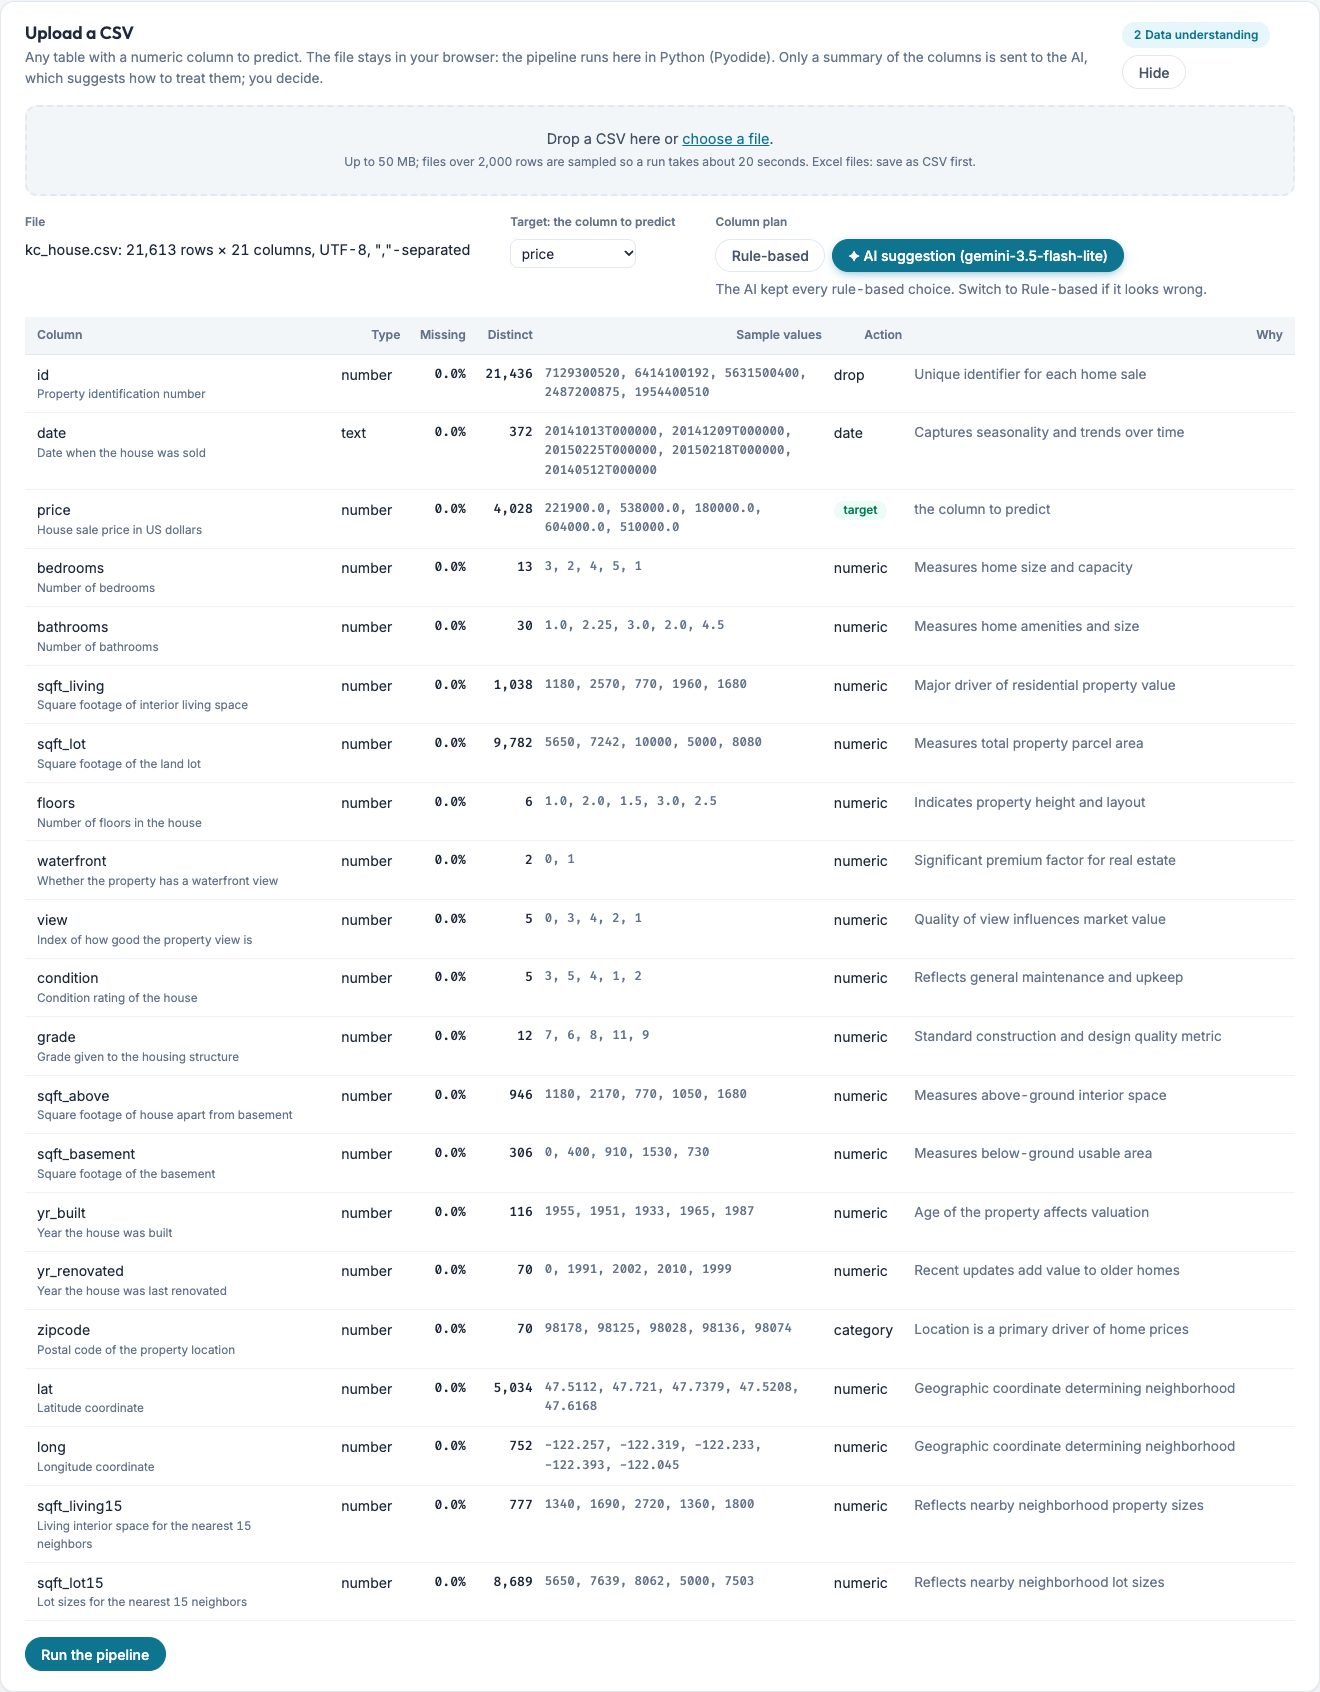
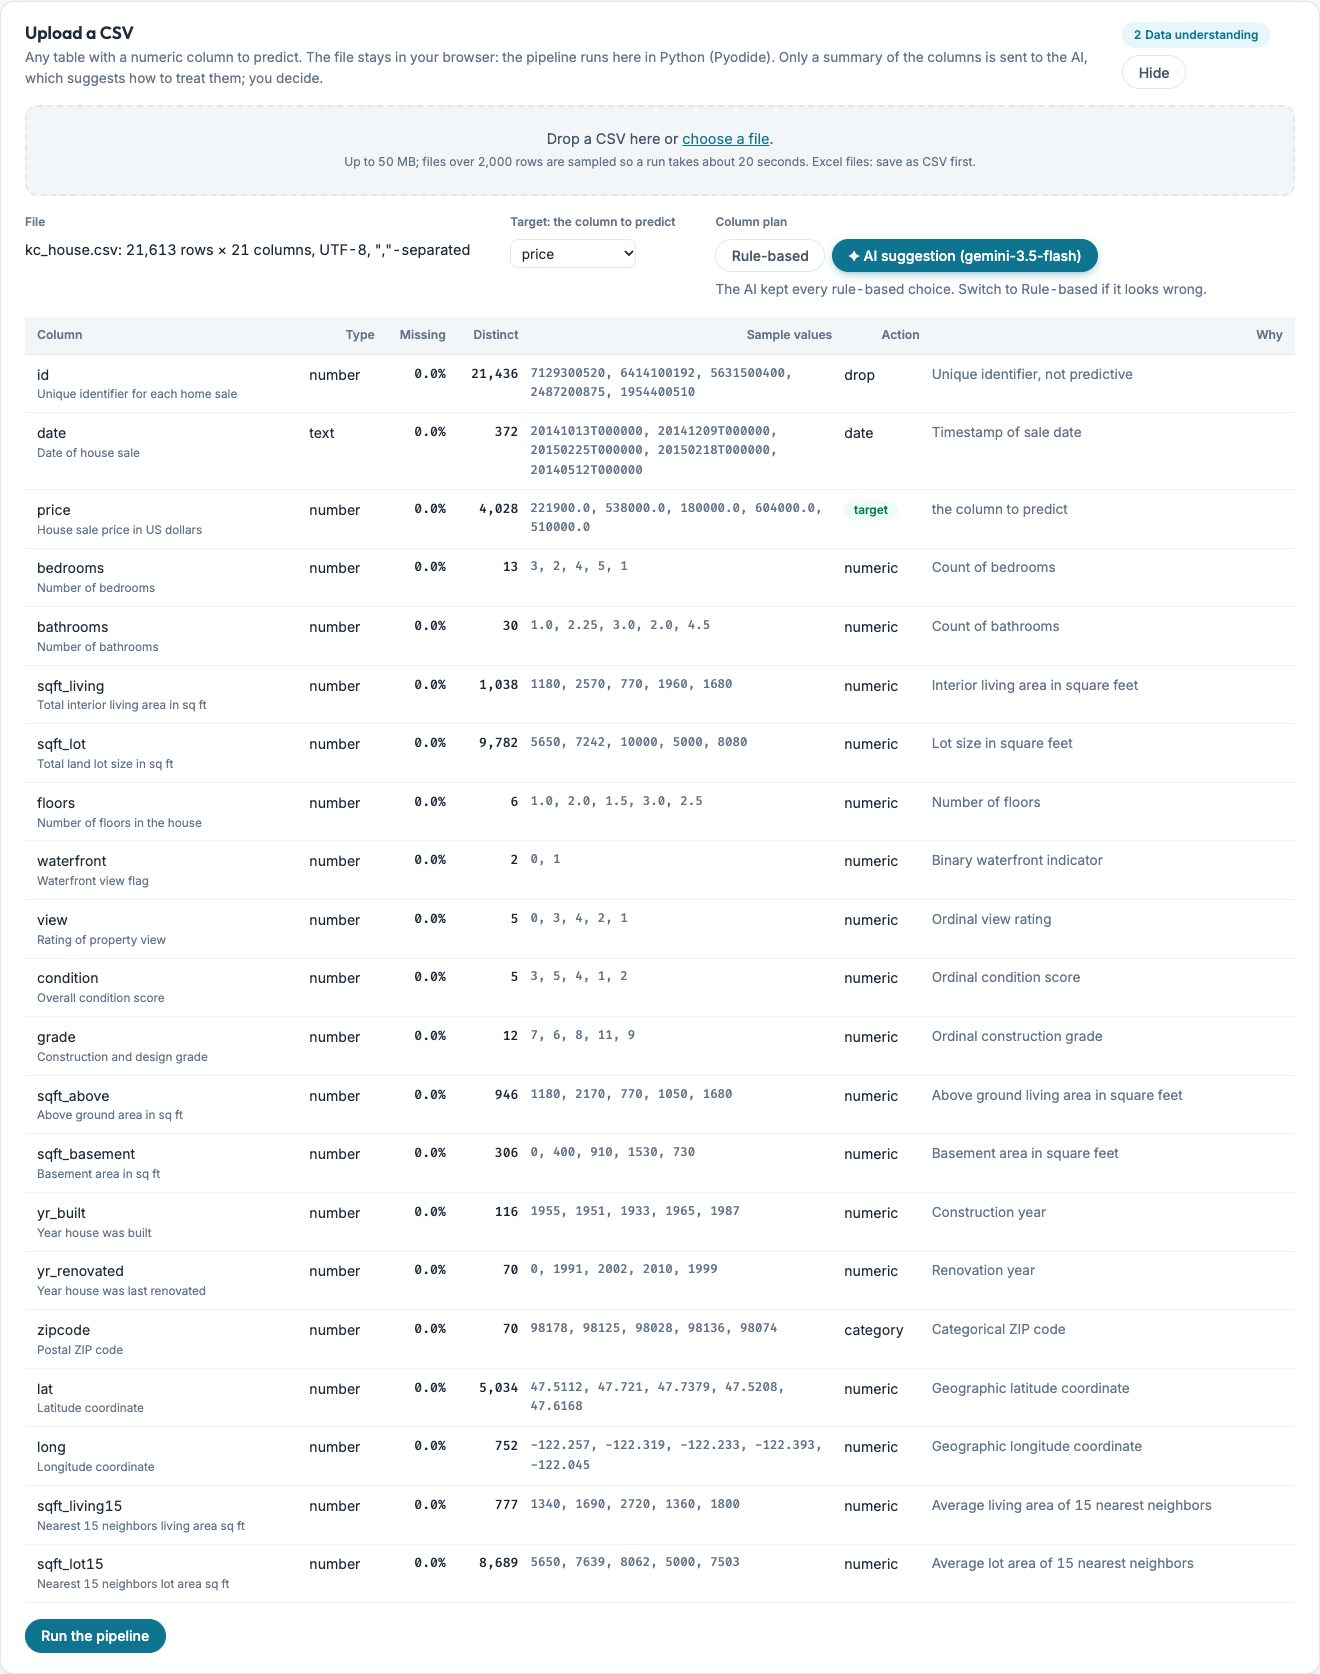
feat: open every dataset on its best combination and mark it in the controls

diff --git a/web/app.js b/web/app.js
@@ -21,6 +21,8 @@ const label = (c) => `${ML[c.method]} + ${c.model}`;
 const series = (d, method, model) => d.combos.filter((c) => c.method === method && c.model === model).sort((a, b) => a.k - b.k);
 const minBy = (list, f) => list.reduce((a, b) => (f(b) < f(a) ? b : a));
 const methods = () => (S.method === "*" ? METHODS : [S.method]);
+const best = (d) => minBy(d.combos.filter((c) => c.method !== "All"), (c) => c.cv_rmse);   // the recommended combination
+const choose = (d) => { const b = best(d); Object.assign(S, { method: b.method, model: b.model, k: null, whatif: {} }); };   // every dataset opens on it
 // the combo every card describes: the chosen k, or each method's best k by CV RMSE; in compare mode the best method wins
 function active(d) {
   const cands = methods().map((m) => (S.k ? series(d, m, S.model).find((c) => c.k === S.k) : minBy(series(d, m, S.model), (c) => c.cv_rmse)));
@@ -50,11 +52,12 @@ function seg(box, options, value, onPick) {
 }
 function renderControls(d, a) {
   const pick = (f) => (v) => { f(v); S.k = null; S.whatif = {}; render(); };
-  seg($("ds"), Object.entries(S.base).map(([k, v]) => [k, esc(v.spec.name)]), S.ds, pick((v) => (S.ds = v)));
-  seg($("methods"), [...METHODS.map((m, i) => [m, `<span class="sw" style="--c:var(--m${i + 1})"></span>${ML[m]}`]), ["*", `Compare all ${METHODS.length} methods`, "all"]], S.method, pick((v) => (S.method = v)));
-  seg($("models"), MODELS.map((m) => [m, m]), S.model, pick((v) => (S.model = v)));
-  const best = minBy(methods().flatMap((m) => series(d, m, S.model)), (c) => c.cv_rmse).k, p = d.meta.p;
-  seg($("ks"), Array.from({ length: p }, (_, i) => i + 1).map((k) => [k, `k = ${k}${k === best ? " <small>★ Best by CV</small>" : k === p ? " <small>Full model</small>" : ""}`, k === best ? "best" : k === p ? "full" : ""]), a.k, (v) => { S.k = +v; S.whatif = {}; render(); });
+  const b = best(d), star = " <small>★ Best by CV</small>";
+  seg($("ds"), Object.entries(S.base).map(([k, v]) => [k, esc(v.spec.name)]), S.ds, pick((v) => { S.ds = v; choose(cur()); }));
+  seg($("methods"), [...METHODS.map((m, i) => [m, `<span class="sw" style="--c:var(--m${i + 1})"></span>${ML[m]}${m === b.method ? star : ""}`, m === b.method ? "best" : ""]), ["*", `Compare all ${METHODS.length} methods`, "all"]], S.method, pick((v) => (S.method = v)));
+  seg($("models"), MODELS.map((m) => [m, `${m}${m === b.model ? star : ""}`, m === b.model ? "best" : ""]), S.model, pick((v) => (S.model = v)));
+  const bk = minBy(methods().flatMap((m) => series(d, m, S.model)), (c) => c.cv_rmse).k, p = d.meta.p;
+  seg($("ks"), Array.from({ length: p }, (_, i) => i + 1).map((k) => [k, `k = ${k}${k === bk ? star : k === p ? " <small>Full model</small>" : ""}`, k === bk ? "best" : k === p ? "full" : ""]), a.k, (v) => { S.k = +v; S.whatif = {}; render(); });
   $("ks").classList.toggle("dense", p > 15);
   const c = d.config, txt = d.meta.text_columns, f = d.prep.file, log = d.prep.log;
   $("prep").textContent = `${txt.length ? `One-hot ${txt.join(", ")} with the first level dropped (${p} columns). ` : ""}80/20 split with seed ${c.seed}: ${d.meta.n_train} train, ${d.meta.n_test} test rows. StandardScaler fitted on the training rows. Features are ranked inside each of the ${c.folds} CV folds, so CV never sees validation rows.`;
@@ -64,12 +67,12 @@ function renderControls(d, a) {
 
 // ── hero, metric cards, strip ────────────────────────────────────────────────
 function renderHero(d) {
-  const s = spec(), all = d.combos.filter((c) => c.method !== "All"), best = minBy(all, (c) => c.cv_rmse), full = series(d, "All", "OLS")[0];
+  const s = spec(), b = best(d), full = series(d, "All", "OLS")[0];
   $("heroTitle").textContent = s.title;
   $("heroLede").textContent = s.lede;
   $("pills").innerHTML = [[`${d.meta.rows} rows, ${d.meta.p} features, target ${d.target}`], [`${METHODS.length} selection methods × ${MODELS.length} models × k = 1 … ${d.meta.p}`],
-    [`★ Best by CV: ${label(best)}, k = ${best.k} (test RMSE ${fmt(best.test_rmse)})`, "best"],
-    [`Full model, k = ${d.meta.p}: test RMSE ${fmt(full.test_rmse)}`, full.test_rmse > best.test_rmse ? "warn" : ""],
+    [`★ Best by CV: ${label(b)}, k = ${b.k} (test RMSE ${fmt(b.test_rmse)})`, "best"],
+    [`Full model, k = ${d.meta.p}: test RMSE ${fmt(full.test_rmse)}`, full.test_rmse > b.test_rmse ? "warn" : ""],
     ...(s.ai ? [["✦ Descriptions on this page were written by AI (Gemini): check them", "ai"]] : [])]
     .map(([t, cls = ""]) => `<span class="pill ${cls}">${esc(t)}</span>`).join("");
 }
@@ -257,7 +260,7 @@ async function runUpload() {
     const buf = await file.arrayBuffer();
     const { json, secs } = await call({ type: "run", file: buf, plan, spec }, [buf],
       ({ done, total }) => { $("prog").max = total; $("prog").value = done; $("runNote").textContent = `Fitted ${done.toLocaleString("en-US")} of ${total.toLocaleString("en-US")} models, ${Math.round((performance.now() - t0) / 1000)} s`; });
-    S.base.upload = JSON.parse(json); S.ds = "upload"; S.k = null; S.whatif = {};
+    S.base.upload = JSON.parse(json); S.ds = "upload"; choose(S.base.upload);
     render();
     summarise(S.base.upload);
     $("runNote").textContent = `Done in ${secs.toFixed(1)} s. The results live in this tab only and replace any earlier upload.`;
@@ -297,6 +300,7 @@ try {
   const data = await Promise.all(presets.map((p) => fetch(`data/${p.key}.json`).then((r) => { if (!r.ok) throw new Error(`${r.status} data/${p.key}.json`); return r.json(); })));
   presets.forEach((p, i) => (S.base[p.key] = data[i]));
   S.ds = presets[0].key;
+  choose(cur());
   $("status").textContent = "";
   render();
 } catch (err) {
